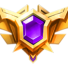
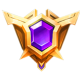
大神接口

diff --git a/lib/ui/profile/grade/index.dart b/lib/ui/profile/grade/index.dart
@@ -8,6 +8,7 @@
 import 'package:flutter/material.dart';
 import 'package:flutter/src/widgets/framework.dart';
 import 'package:get/get.dart';
+import 'package:wy/model/user_info_model.dart';
 import 'package:wy/ui/profile/grade/controller.dart';
 import 'package:wy/widget/arc_progressbar_widget.dart';
 import 'package:wy/widget/paixs_widget.dart';
@@ -21,95 +22,102 @@ class GradePage extends GetView<GradeController> {
           centerTitle: true,
           elevation: 0,
         ),
-        body:Obx(()=>controller.isLoadding?buildLoad(): Column(
-          mainAxisAlignment: MainAxisAlignment.start,
-          children: [
-            Stack(
-              children: [
-                Row(
-                  mainAxisAlignment: MainAxisAlignment.center,
-                  children: [
-                    Container(
-                      height: 230,
-                      width: Get.width,
-                      alignment: Alignment.center,
-                      child: Stack(
+        body: Obx(() => controller.isLoadding
+            ? buildLoad()
+            : Column(
+                mainAxisAlignment: MainAxisAlignment.start,
+                children: [
+                  Stack(
+                    children: [
+                      Row(
+                        mainAxisAlignment: MainAxisAlignment.center,
                         children: [
                           Container(
-                            decoration: BoxDecoration(
-                              image: new DecorationImage(
-                                scale: 1.6,
-                                fit: BoxFit.scaleDown,
-                                image: AssetImage(
-                                    'assets/images/grade/baron.webp'),
-                              ),
-                            ),
-                            width: 212,
-                            child: ArcProgressBar(
-                              progress: 80,
+                            height: 230,
+                            width: Get.width,
+                            alignment: Alignment.center,
+                            child: Stack(
+                              children: [
+                                Container(
+                                  decoration: BoxDecoration(
+                                    image: new DecorationImage(
+                                      scale: 1.8,
+                                      fit: BoxFit.scaleDown,
+                                      image: AssetImage(controller.centerImg()),
+                                    ),
+                                  ),
+                                  width: 212,
+                                  child: ArcProgressBar(
+                                    progress: controller.model.percent,
+                                  ),
+                                ),
+                                Positioned(
+                                    bottom: 0,
+                                    left: 0,
+                                    right: 0,
+                                    child: Row(
+                                      mainAxisAlignment:
+                                          MainAxisAlignment.spaceEvenly,
+                                      children: [
+                                        Spacer(),
+                                        Image(
+                                          image: AssetImage(
+                                              controller.curLevelImg()),
+                                          height: 32,
+                                        ),
+                                        Spacer(),
+                                        Image(
+                                          image: AssetImage(
+                                              controller.nextLevelImg()),
+                                          height: 32,
+                                        ),
+                                        Spacer()
+                                      ],
+                                    )),
+                                Positioned(
+                                  left: 10,
+                                  right: 10,
+                                  bottom: 20,
+                                  child: Visibility(
+                                      visible: controller.isauth == TYPE_VIP,
+                                      child: Center(
+                                        child: PWidget.text(
+                                            'LEVEL${controller.model.userLevel}',
+                                            [Colors.white, 18, true],
+                                            {'ff': 'DIN'}),
+                                      )),
+                                ),
+                              ],
                             ),
                           ),
-                          Positioned(
-                              bottom: 0,
-                              left: 0,
-                              right: 0,
-                              child: Row(
-                                mainAxisAlignment:
-                                MainAxisAlignment.spaceEvenly,
-                                children: [
-                                  Spacer(),
-                                  Image(
-                                    image: AssetImage(
-                                        'assets/images/grade/v_grade1.webp'),
-                                    height: 32,
-                                  ),
-                                  Spacer(),
-                                  Image(
-                                    image: AssetImage(
-                                        'assets/images/grade/v_grade2.webp'),
-                                    height: 32,
-                                  ),
-                                  Spacer()
-                                ],
-                              )),
-                          Positioned(
-                              left: 10,
-                              right: 10,
-                              bottom: 25,
-                              child: Center(
-                                child: PWidget.text('LEVEL',
-                                    [Colors.white, 18, true], {'ff': 'DIN'}),
-                              )),
                         ],
-                      ),
-                    ),
-                  ],
-                )
-              ],
-            ),
-            PWidget.boxh(40),
-            PWidget.text(
-                'Current level', [Colors.white, 18, true], {'ff': 'DIN'}),
-            Row(
-              mainAxisSize: MainAxisSize.max,
-              children: [
-                buildScoreItem('recharge'),
-                buildScoreItem('consumption')
-              ],
-            ),
-            nextLevelButton(),
-            Row(
-              mainAxisSize: MainAxisSize.max,
-              children: [
-                buildScoreItem('recharge'),
-                buildScoreItem('consumption')
-              ],
-            )
-          ],
-        )),
+                      )
+                    ],
+                  ),
+                  PWidget.boxh(40),
+                  PWidget.text(
+                      'Current level', [Colors.white, 18, true], {'ff': 'DIN'}),
+                  Row(
+                    mainAxisSize: MainAxisSize.max,
+                    children: [
+                      buildScoreItem('recharge', controller.model.levelNum),
+                      buildScoreItem('consumption', controller.model.levelNum)
+                    ],
+                  ),
+                  nextLevelButton(),
+                  Row(
+                    mainAxisSize: MainAxisSize.max,
+                    children: [
+                      buildScoreItem('recharge', controller.model.nextLevelNum),
+                      buildScoreItem(
+                          'consumption', controller.model.nextLevelNum)
+                    ],
+                  )
+                ],
+              )),
       );
 
-  buildScoreItem(var title) {
+  buildScoreItem(var title, var value) {
     return Expanded(
         child: Column(
       mainAxisAlignment: MainAxisAlignment.center,
@@ -118,7 +126,7 @@ class GradePage extends GetView<GradeController> {
         PWidget.text(
             'Monthly $title', [Color.fromRGBO(255, 255, 255, 0.65), 14, true]),
         PWidget.boxh(8),
-        PWidget.text('£ 5000', [Colors.white, 30, true], {'ff': 'DIN'}),
+        PWidget.text('£ $value', [Colors.white, 30, true], {'ff': 'DIN'}),
         PWidget.boxh(10),
       ],
     ));

diff --git a/lib/ui/profile/grade/controller.dart b/lib/ui/profile/grade/controller.dart
@@ -6,25 +6,83 @@
   Copyright © sidequest_hub_app. All rights reserved.
 */
 import 'package:get/get.dart';
+import 'package:wy/api/user_api.dart';
+import 'package:wy/model/level_model.dart';
+import 'package:wy/model/user_info_model.dart';
+import 'package:wy/ui/controller/user_controller.dart';
 
-class GradeController extends GetxController{
- RxBool _isLoadding=RxBool(true);
+class GradeController extends GetxController {
+  RxBool _isLoadding = RxBool(true);
 
- bool get isLoadding => _isLoadding.value;
+  bool get isLoadding => _isLoadding.value;
 
   set isLoadding(bool value) {
     _isLoadding.value = value;
   }
 
+  UserController userController = Get.find<UserController>();
+  late LevelModel model;
+  late int isauth;
+
   @override
   void onInit() {
     super.onInit();
-    Future.delayed(Duration(milliseconds: 2000),(){
-      isLoadding=false;
-    });
+    isauth = userController.userInfoModel.value.isauth;
+    initData();
   }
-  //获取等级数据
-  initData(){
 
+  //获取等级数据
+  initData() async {
+    model = await UserApi.level();
+    isLoadding = false;
   }
+
+  String centerImg() {
+    var img;
+    int level = model.userLevel;
+    if (isauth != TYPE_VIP) {
+      switch (level) {
+        case 0:
+        case 1:
+          img = 'assets/images/grade/baron.webp';
+          break;
+        case 2:
+          img = 'assets/images/grade/viscounet.webp';
+          break;
+        case 3:
+          img = 'assets/images/grade/earl.webp';
+          break;
+        case 4:
+          img = 'assets/images/grade/marquis.webp';
+          break;
+        case 5:
+          img = 'assets/images/grade/duke.webp';
+          break;
+      }
+    } else {
+      if (level == 0) {
+        img = 'assets/images/grade/level1.webp';
+      } else {
+        img = 'assets/images/grade/level$level.webp';
+      }
+    }
+    return img;
+  }
+
+  curLevelImg() {
+    if (model.userLevel == 0) {
+      if (isauth == TYPE_VIP)
+        return 'assets/images/grade/${isauth == TYPE_VIP ? 'v_' : ''}grade1.webp';
+    }
+    return 'assets/images/grade/${isauth == TYPE_VIP ? 'v_' : ''}grade${model.userLevel}.webp';
+  }
+
+  nextLevelImg(){
+    if (model.userLevel == 0) {
+      if (isauth == TYPE_VIP)
+        return 'assets/images/grade/${isauth == TYPE_VIP ? 'v_' : ''}grade1.webp';
+    }
+    return 'assets/images/grade/${isauth == TYPE_VIP ? 'v_' : ''}grade${model.userLevel+1}.webp';
+  }
+
 }

diff --git a/lib/api/user_api.dart b/lib/api/user_api.dart
@@ -5,7 +5,9 @@ import 'package:crypto/crypto.dart';
 import 'package:dio/dio.dart';
 import 'package:wy/api/wy_http.dart';
 import 'package:wy/model/attention_model.dart';
+import 'package:wy/model/level_model.dart';
 import 'package:wy/model/user_info_model.dart';
+import 'package:wy/utils/utils.dart';
 
 class UserApi {
   static Future<UserInfoModel> info() async {
@@ -111,5 +113,14 @@ class UserApi {
     var response = await http.get('/peiwan/app/user/attention/$touid',
         queryParameters: ({}));
     return response;
+  }
+
+  /**
+   * 玩家爵位查询
+   */
+  static Future<LevelModel>  level() async {
+    var response = await http.get('/peiwan/app/order/live/level',
+        queryParameters: ({}));
+    return LevelModel.fromJson(response.data);
   }
 }

diff --git a/lib/model/level_model.dart b/lib/model/level_model.dart
@@ -1,0 +1,26 @@
+class LevelModel {
+  int levelNum;
+  int nextLevelNum;
+  double percent;
+  int userLevel;
+
+  LevelModel({this.levelNum=0, this.nextLevelNum=0, this.percent=0, this.userLevel=0});
+
+  factory LevelModel.fromJson(Map<String, dynamic> json) {
+    return LevelModel(
+      levelNum: json['levelNum'],
+      nextLevelNum: json['nextLevelNum'],
+      percent:double.parse(json['percent']) ,
+      userLevel: json['userLevel'],
+    );
+  }
+
+  Map<String, dynamic> toJson() {
+    final Map<String, dynamic> data = new Map<String, dynamic>();
+    data['levelNum'] = this.levelNum;
+    data['nextLevelNum'] = this.nextLevelNum;
+    data['percent'] = this.percent;
+    data['userLevel'] = this.userLevel;
+    return data;
+  }
+}
